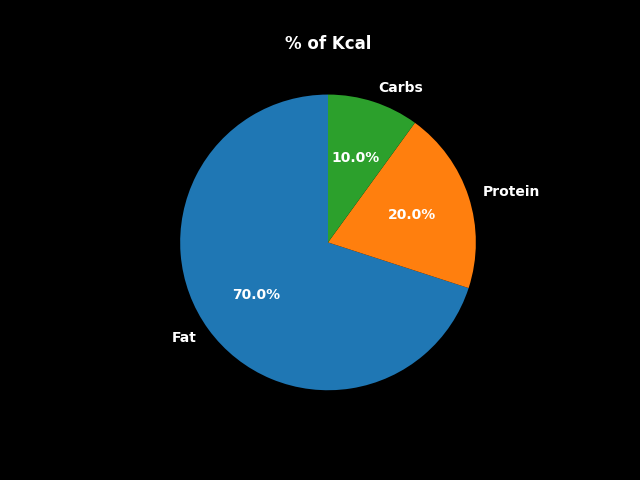
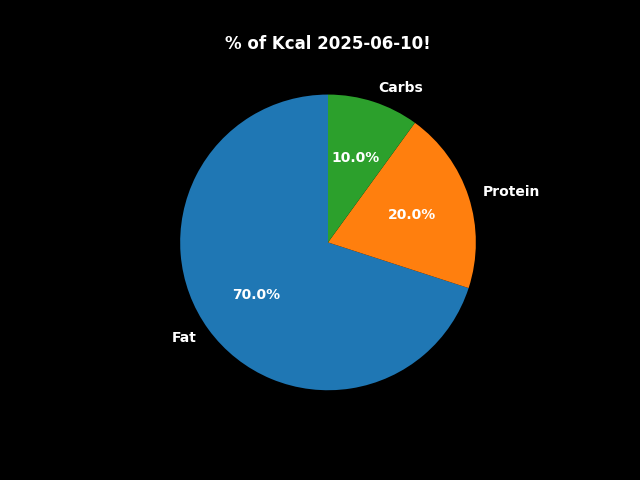
datetime to title_name

Changed region(s): [[0.3438, 0.0625, 0.6875, 0.125]]

diff --git a/matplot2.py b/matplot2.py
@@ -1,5 +1,9 @@
 import matplotlib.pyplot as plt
 import subprocess
+import datetime
+date =  datetime.date.today()
+tile_name = "% of Kcal " + str(date) + "!"
+
 
 # Values for the pie chart
 values = [0.7, 0.2, 0.1]
@@ -27,7 +31,7 @@ for autotext in autotexts:
     autotext.set_weight('bold')
 
 # Title with white bold text
-plt.title('% of Kcal', color='white', weight='bold')
+plt.title(tile_name, color='white', weight='bold')
 
 # Save the pie chart to an image file
 plt.savefig('pie_chart.png', facecolor=fig.get_facecolor(), edgecolor='none')
